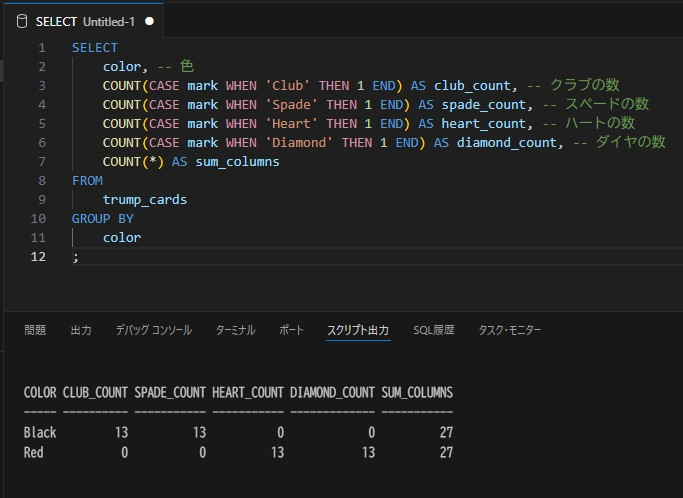
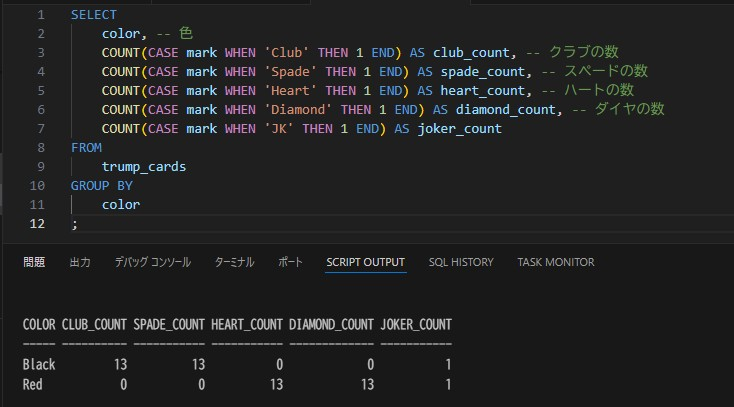
集計ミスの修正

diff --git a/README.md b/README.md
@@ -9,10 +9,8 @@
     * [Oracle Databaseのバージョンのトレース](#oracle-databaseのバージョンのトレース)
 1. [テーブルデータ](#テーブルデータ)
 1. [検索サンプル](#検索サンプル)
-    * [マーク別集計](#マーク別集計)
-    * [マーク別集計（合計行付き）](#マーク別集計合計行付き)
-    * [色別集計](#色別集計)
-    * [色別集計（合計行付き）](#色別集計合計行付き)
+    * [レポート作成用クエリの結果](#レポート作成用クエリの結果)
+    * [サブクエリの結果](#サブクエリの結果)
 
 
 ## 検証環境
@@ -68,28 +66,32 @@ SELECT * FROM V$INSTANCE;
 
 [こちら](TABLE_DATA.md)
 
-※JOKERの"suji"、"mark"、"is_num"はNULL
+
+## 検索サンプル
 
 
-## 検索サンプル例
+### レポート作成用クエリの結果
 
 
-### マーク別集計
+#### マーク別
 
-![マーク別の集計結果](/img/mark_normal.jpg)
+![マーク別](/img/mark_rollup.jpg)
 
+#### 色別
 
-### マーク別集計（合計行付き）
-
-![マーク別の集計結果（合計行付き）](/img/mark_rollup.jpg)
-
-
-### 色別集計
-
-![色別の集計結果](/img/color_normal.jpg)
+![色別](/img//color_rollup.jpg)
 
 
-### 色別集計（合計行付き）
+### サブクエリの結果
 
-![色別の集計結果（合計行付き）](/img//color_rollup.jpg)
+
+#### マーク別
+
+![マーク別](/img/mark_normal.jpg)
+
+
+#### 色別
+
+![色別](/img/color_normal.jpg)
+
 

diff --git a/TABLE_DATA.md b/TABLE_DATA.md
@@ -52,5 +52,5 @@
 |50|11|Diamond|Red|J|false|
 |51|12|Diamond|Red|Q|false|
 |52|13|Diamond|Red|K|false|
-|53|||Black|JOKER||
-|54|||Red|JOKER||
+|53|-1|JK|Black|JOKER|false|
+|54|-1|JK|Red|JOKER|false|
